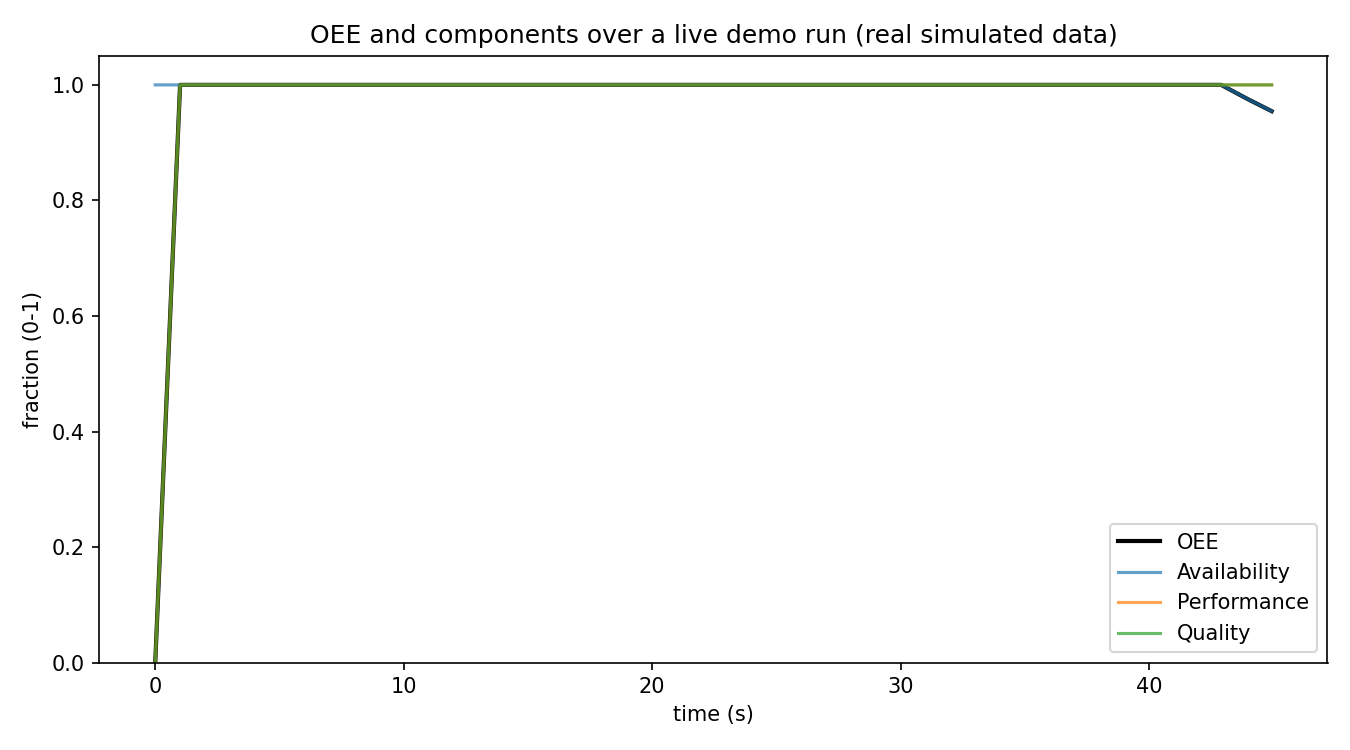
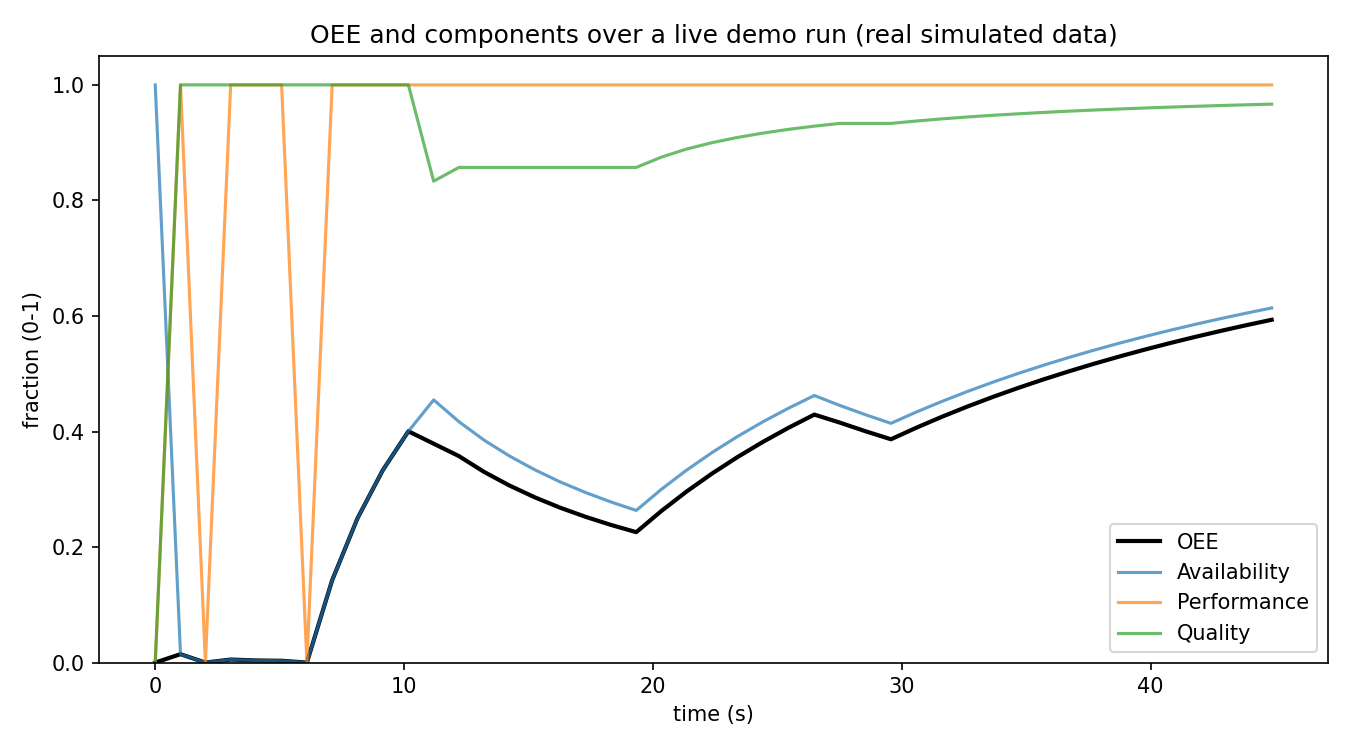
docs: expand README architecture diagram to name actual components
Show each of the four submodels (Nameplate, TechnicalData,
OperationalState, ConditionMonitoring) as distinct nodes instead of
collapsed into one label, and use real class/file names from the
codebase (AssetOpcUaServer, Gateway, opcua_bridge_node, cycle_manager,
live_dashboard.py) instead of generic component names.

diff --git a/README.md b/README.md
@@ -23,30 +23,40 @@ bridge, is the same code that would sit in front of a real machine.
 
 ```mermaid
 flowchart LR
-    subgraph Asset["Asset layer (RAMI 4.0: Asset)"]
+    subgraph Asset["Asset layer"]
         Gazebo["Gazebo Classic 11\n3-DOF arm + conveyor\n(ROS2 Humble)"]
         CycleManager["cycle_manager node\nRUNNING/DOWN duty cycle,\njoint trajectories, temperature"]
         Gazebo <--> CycleManager
     end
 
+    CycleManager -- "ROS2 topics" --> OPCUABridge["opcua_bridge_node\n(ROS2 <-> OPC UA)"]
+
     subgraph Comm["Communication layer"]
-        OPCUA["OPC UA server\n(asyncua)\njoint states, conveyor,\ntemperature, cycle state"]
+        OPCUA["AssetOpcUaServer\n(asyncua)\njoint states, conveyor,\ntemperature, cycle state"]
     end
 
-    CycleManager -- "ROS2 topics" --> OPCUABridge["opcua_bridge_node\n(ROS2 <-> OPC UA)"]
     OPCUABridge --> OPCUA
+    OPCUA -- "polled by" --> Gateway
 
     subgraph Info["Information layer"]
-        Gateway["Gateway\nOPC UA -> AAS -> MQTT"]
-        AAS["AAS REST API v3.0\n(basyx-python-sdk)\nNameplate | TechnicalData |\nOperationalState | ConditionMonitoring"]
-        Gateway --> AAS
-    end
+        Gateway["Gateway\n(gateway/bridge.py)"]
+        Nameplate["Nameplate submodel"]
+        TechnicalData["TechnicalData submodel"]
+        OperationalState["OperationalState submodel"]
+        ConditionMonitoring["ConditionMonitoring submodel\n(OEE = Availability x Performance x Quality)"]
+        RestApi["AAS REST API v3.0\n(basyx WSGIApp)"]
 
-    OPCUA -- "polled" --> Gateway
+        Gateway --> OperationalState
+        Gateway --> ConditionMonitoring
+        Nameplate --> RestApi
+        TechnicalData --> RestApi
+        OperationalState --> RestApi
+        ConditionMonitoring --> RestApi
+    end
 
     subgraph Functional["Functional layer"]
         MQTT["Eclipse Mosquitto"]
-        Dashboard["Matplotlib dashboard"]
+        Dashboard["live_dashboard.py\n(Matplotlib)"]
         MQTT --> Dashboard
     end
 
